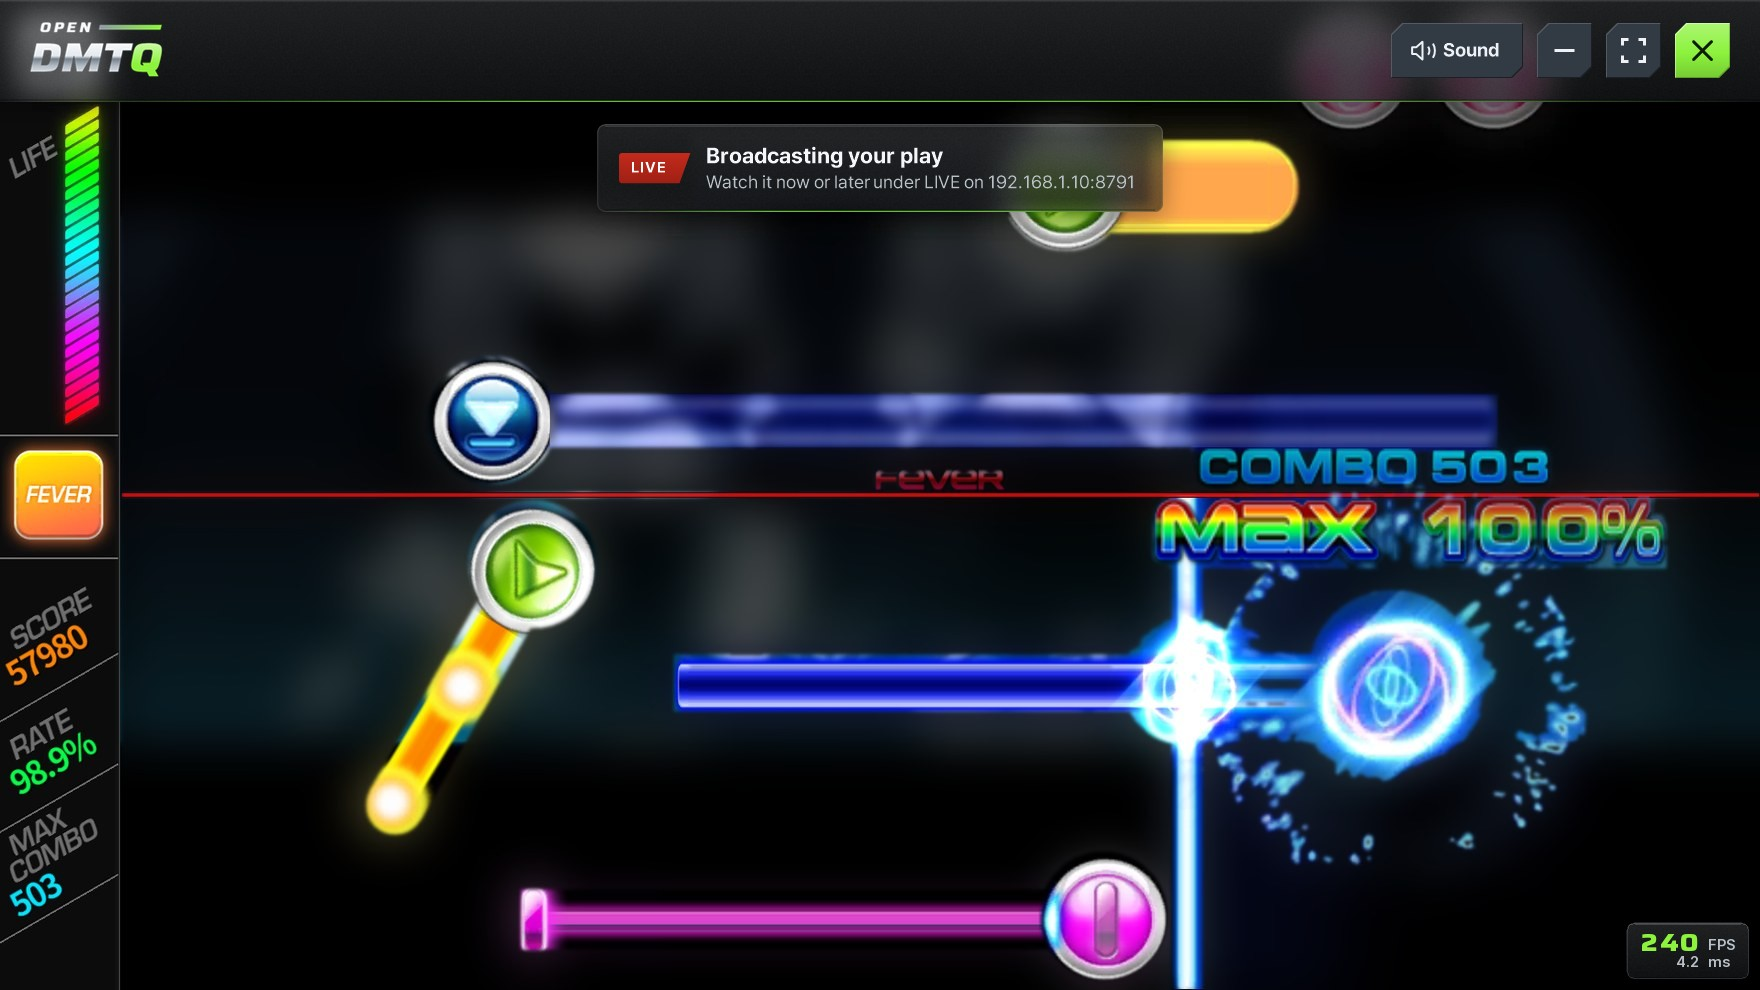
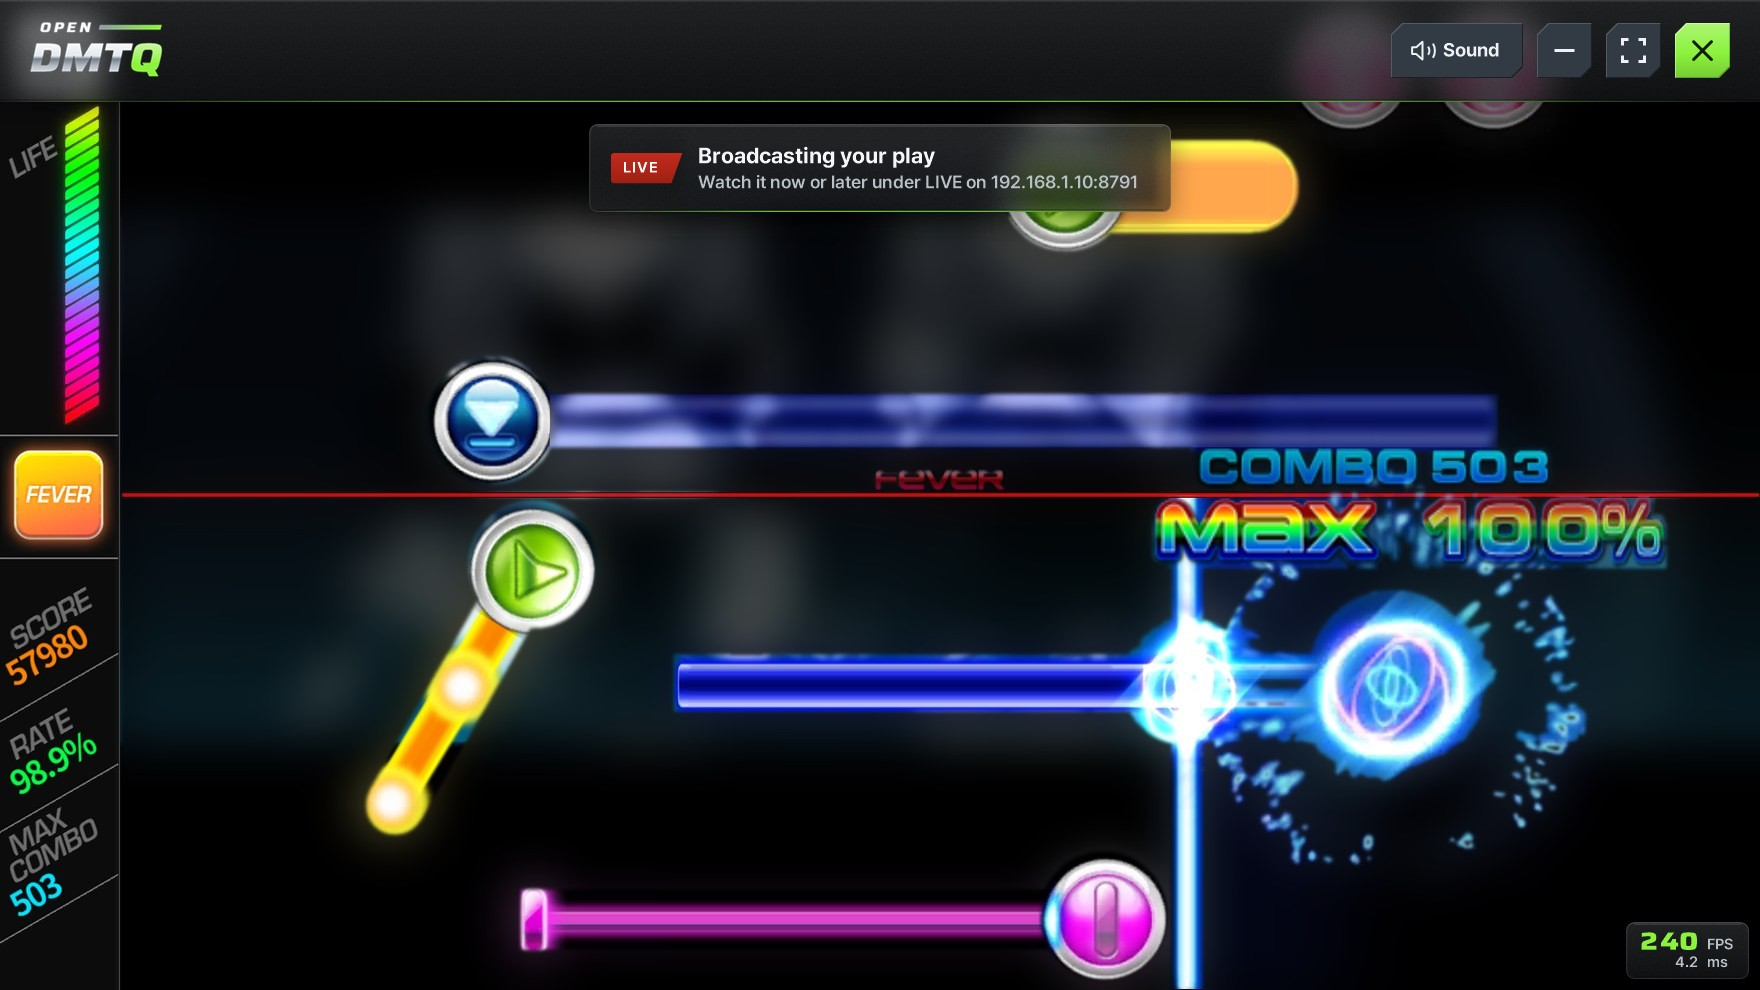
Docs: the game's pictures of the PC guide as 0.11.3 draws them
The sound panel's numbers in their heavier face over darker glass, with the broadcast notice beside the open panel in
the room it leaves, and in both pictures the notice's second line and the FPS counter as they are drawn now. Drawn by
the player's own overlay code over the same frame of a song as before. The question before quitting and the bar are
drawn as they were and stay.

Changed region(s): [[0.3125, 0.1212, 0.6875, 0.2121], [0.9375, 0.9394, 1.0, 0.9697]]

diff --git a/docs/windows-player.md b/docs/windows-player.md
@@ -257,7 +257,9 @@ buttons, and it goes while the bar is down.
 <p align="center">
   <img src="images/game-pc-sound.jpg" alt="The sound panel open under the bar during a song, its Sound button pressed in:
   Master, Music and Effects as sliders at 85, 80 and 90 %, the equaliser's presets, each as wide as its word, with Bass
-  chosen, and its Low, Mid and High bands in decibels; the FPS counter at 240 at the bottom right" width="100%">
+  chosen, and its Low, Mid and High bands with their frequencies, in decibels, the panel's numbers in a heavier face over
+  darker glass; beside the panel, in the room it leaves, the broadcast notice, LIVE, Broadcasting your play; the FPS
+  counter at 240 at the bottom right" width="100%">
 </p>
 
 The bar's **Sound** button opens a card of glass under the bar at the game's right side: **Master**, **Music** and
